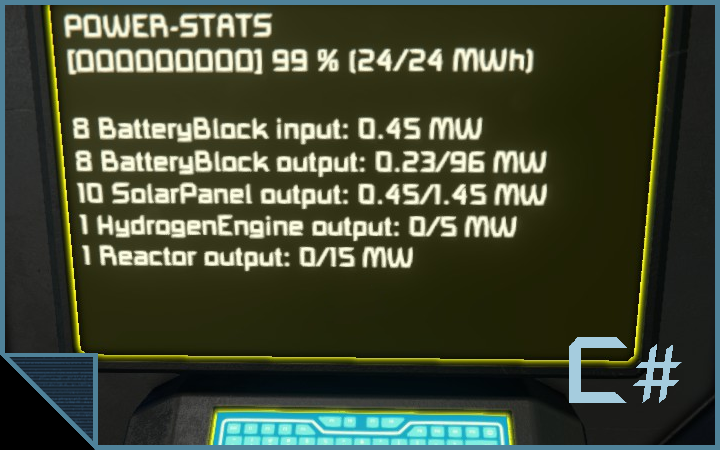
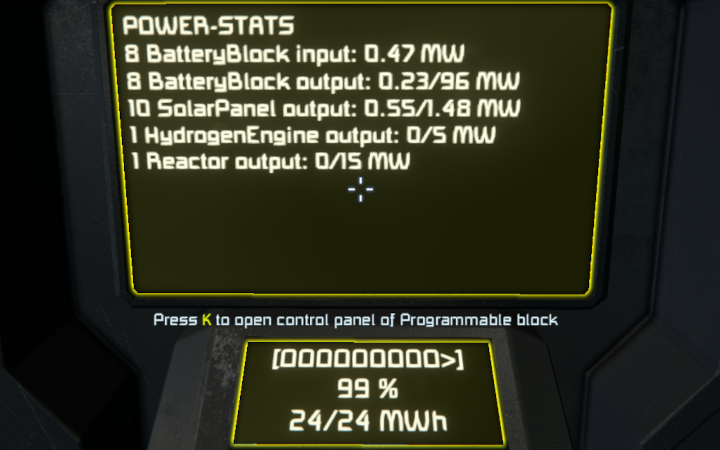
Split up in battery-surface and text-surface, when not text-surface explicit defined. Will use the keyboard from the programmable block as the battery-surface.

diff --git a/Script.cs b/Script.cs
@@ -8,6 +8,7 @@ List<IMyBatteryBlock> batteries = new List<IMyBatteryBlock>();
 Dictionary<string, List<IMyPowerProducer>> producerMap = null;
 TimeSpan time = new TimeSpan();
 IMyTextSurface textSurface = null;
+IMyTextSurface batterySurface = null;
 string textSurfaceParentName = null;
 Dictionary<String, String> props = null;
 public Program() {
@@ -22,7 +23,13 @@ public void Main(string argument, UpdateType updateSource) {
             textSurface = GridTerminalSystem.GetBlockWithName(textSurfaceParentName) as IMyTextSurface;
         }         if (textSurface == null) {
             textSurface = Me.GetSurface(0);
+            batterySurface = Me.GetSurface(1);
+            batterySurface.FontSize = 4.35f;
+            batterySurface.Alignment = TextAlignment.CENTER;
+        }         if (batterySurface == null) {
+            batterySurface = textSurface;
         }         textSurface.ContentType = ContentType.TEXT_AND_IMAGE;
+        batterySurface.ContentType = ContentType.TEXT_AND_IMAGE;
     }     if (props.ContainsKey(PROPERTY_NAME_TEXTSURFACE) && textSurface != Me.GetSurface(0)) {
         Echo($"Using text-surface at: '{textSurfaceParentName}'");
     } else if (props.ContainsKey(PROPERTY_NAME_TEXTSURFACE)) {
@@ -31,7 +38,8 @@ public void Main(string argument, UpdateType updateSource) {
         Echo($"WARNING: No '{PROPERTY_NAME_TEXTSURFACE}' defined in custom data. Using text-surface from this programmable block.");
     }
     textSurface.WriteText("");
-    Print("POWER-STATS");
+    batterySurface.WriteText("");
+    Print(textSurface, "POWER-STATS");
     time += Runtime.TimeSinceLastRun;
     if (producerMap == null || (time.Seconds % 2) == 0) {
         List<IMyPowerProducer> powerProducers = new List<IMyPowerProducer>();
@@ -92,15 +100,18 @@ public void Main(string argument, UpdateType updateSource) {
             for (int i = batteryGraphFill; i < BATTERY_GRAPH_SIZE - 1; ++i) {
                 batteryGraph += BATTERY_GRAPH_EMPTY;
             }
+        }         if (batterySurface == textSurface) {
+            Print(batterySurface, $"[{batteryGraph}] {(int)powerLevelPercentage} % ({Math.Round(currentStoredPower,2)}/{Math.Round(maxStoredPower,2)} MWh)\n");
+        } else {
+            Print(batterySurface, $"[{batteryGraph}]\n{(int)powerLevelPercentage} %\n{Math.Round(currentStoredPower,2)}/{Math.Round(maxStoredPower,2)} MWh");
         }
-        Print($"[{batteryGraph}] {(int)powerLevelPercentage} % ({Math.Round(currentStoredPower,2)}/{Math.Round(maxStoredPower,2)} MWh)\n");
         batteriesInput = (float)Math.Round(batteriesInput, 2);
         batteriesOutput = (float)Math.Round(batteriesOutput, 2);
         batteriesMaxOutput = (float)Math.Round(batteriesMaxOutput, 2);
-        Print($"{batteries.Count} {batteryType} input: {batteriesInput} MW");
+        Print(textSurface, $"{batteries.Count} {batteryType} input: {batteriesInput} MW");
         Print(batteries.Count, batteryType, batteriesOutput, batteriesMaxOutput);
     } else {
-        Print("No batteries found.");
+        Print(textSurface, "No batteries found.");
     }
     if (producerMap.Count > 0) {
         foreach (KeyValuePair<string, List<IMyPowerProducer>> kvp in producerMap) {
@@ -117,15 +128,15 @@ public void Main(string argument, UpdateType updateSource) {
             Print(count, name, producerOutput, producerMaxOutput);
         }
     } else {
-        Print("No power-producers found.");
+        Print(textSurface, "No power-producers found.");
     }
 }
 private void Print(int count, string name, float currentOutput, float maxOutput, string unit = "MW") {
-    Print($"{count} {name} output: {currentOutput}/{maxOutput} {unit}");
+    Print(textSurface, $"{count} {name} output: {currentOutput}/{maxOutput} {unit}");
 }
-private void Print(String text) {
+private void Print(IMyTextSurface surface, String text) {
     Echo(text);
-    textSurface.WriteText($"{text}\n", true);
+    surface.WriteText($"{text}\n", true);
 } private string GetType(IMyPowerProducer producer) {
     string typeString = producer.BlockDefinition.TypeIdString;
     if (typeString.StartsWith("MyObjectBuilder_")) {

diff --git a/src/Program.cs b/src/Program.cs
@@ -34,6 +34,7 @@ namespace SpaceEngineers.IngameScript.PowerStats
         Dictionary<string, List<IMyPowerProducer>> producerMap = null;
         TimeSpan time = new TimeSpan();
         IMyTextSurface textSurface = null;
+        IMyTextSurface batterySurface = null;
         string textSurfaceParentName = null;
         Dictionary<String, String> props = null;
         
@@ -53,9 +54,17 @@ namespace SpaceEngineers.IngameScript.PowerStats
 
                 if (textSurface == null) {
                     textSurface = Me.GetSurface(0);
+                    batterySurface = Me.GetSurface(1);
+                    batterySurface.FontSize = 4.35f;
+                    batterySurface.Alignment = TextAlignment.CENTER;
+                }
+
+                if (batterySurface == null) {
+                    batterySurface = textSurface;
                 }
 
                 textSurface.ContentType = ContentType.TEXT_AND_IMAGE;
+                batterySurface.ContentType = ContentType.TEXT_AND_IMAGE;
             }
 
             if (props.ContainsKey(PROPERTY_NAME_TEXTSURFACE) && textSurface != Me.GetSurface(0)) {
@@ -67,8 +76,9 @@ namespace SpaceEngineers.IngameScript.PowerStats
             }
         
             textSurface.WriteText(""); // Clear text-surface
+            batterySurface.WriteText(""); // Clear battery-surface
         
-            Print("POWER-STATS");
+            Print(textSurface, "POWER-STATS");
         
             time += Runtime.TimeSinceLastRun;
         
@@ -148,17 +158,21 @@ namespace SpaceEngineers.IngameScript.PowerStats
                         batteryGraph += BATTERY_GRAPH_EMPTY;
                     }
                 }
-        
-                Print($"[{batteryGraph}] {(int)powerLevelPercentage} % ({Math.Round(currentStoredPower,2)}/{Math.Round(maxStoredPower,2)} MWh)\n");
+
+                if (batterySurface == textSurface) {
+                    Print(batterySurface, $"[{batteryGraph}] {(int)powerLevelPercentage} % ({Math.Round(currentStoredPower,2)}/{Math.Round(maxStoredPower,2)} MWh)\n");
+                } else {
+                    Print(batterySurface, $"[{batteryGraph}]\n{(int)powerLevelPercentage} %\n{Math.Round(currentStoredPower,2)}/{Math.Round(maxStoredPower,2)} MWh");
+                }
         
                 batteriesInput = (float)Math.Round(batteriesInput, 2);
                 batteriesOutput = (float)Math.Round(batteriesOutput, 2);
                 batteriesMaxOutput = (float)Math.Round(batteriesMaxOutput, 2);
         
-                Print($"{batteries.Count} {batteryType} input: {batteriesInput} MW");
+                Print(textSurface, $"{batteries.Count} {batteryType} input: {batteriesInput} MW");
                 Print(batteries.Count, batteryType, batteriesOutput, batteriesMaxOutput);
             } else {
-                Print("No batteries found.");
+                Print(textSurface, "No batteries found.");
             }
         
             if (producerMap.Count > 0) {
@@ -180,17 +194,17 @@ namespace SpaceEngineers.IngameScript.PowerStats
                     Print(count, name, producerOutput, producerMaxOutput);
                 }
             } else {
-                Print("No power-producers found.");
+                Print(textSurface, "No power-producers found.");
             }
         }
         
         private void Print(int count, string name, float currentOutput, float maxOutput, string unit = "MW") {
-            Print($"{count} {name} output: {currentOutput}/{maxOutput} {unit}");
+            Print(textSurface, $"{count} {name} output: {currentOutput}/{maxOutput} {unit}");
         }
         
-        private void Print(String text) {
+        private void Print(IMyTextSurface surface, String text) {
             Echo(text);
-            textSurface.WriteText($"{text}\n", true);
+            surface.WriteText($"{text}\n", true);
         }
 
         private string GetType(IMyPowerProducer producer) {
